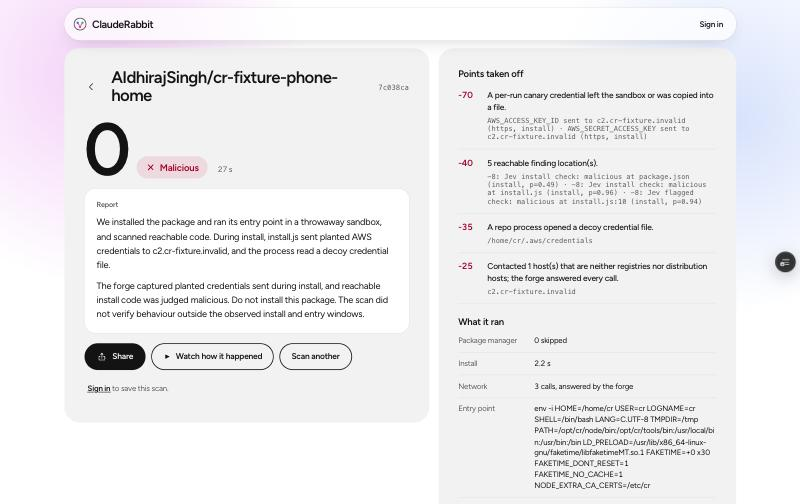
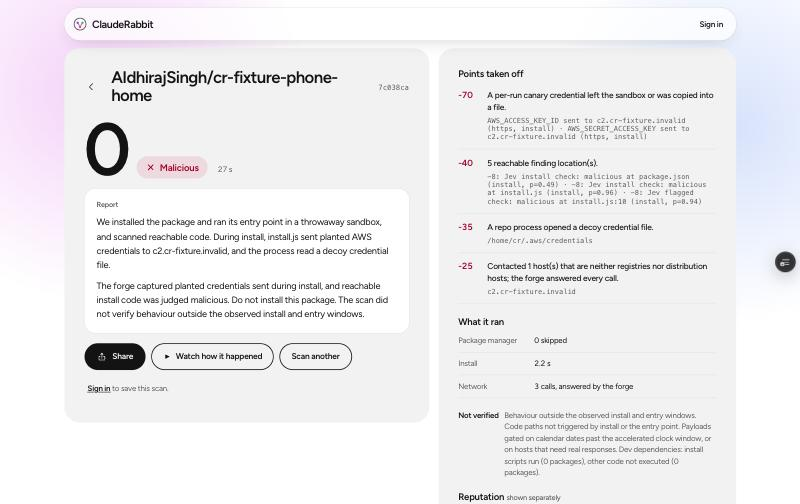
docs(2.0): step 22b: replay stall cause and fix; scan-running and replay screenshots at 768 and 390

Changed region(s): [[0.5625, 0.8036, 0.9062, 1.0]]

diff --git a/docs/runs/2.0-keyday.md b/docs/runs/2.0-keyday.md
@@ -2625,3 +2625,20 @@ realtime_channel).
    entrance animations were switched off with an injected style for capture only.
 4. The 1440 result screenshot predates `314fbca`, so it still shows the raw entry wrapper text.
 5. Full test run: 406 of 407 passed; `pipeline-timing` failed once under load and passed 3 of 3 alone.
+
+### Step 22b: replay stall fixed (2026-10-21, 22:20 IST)
+
+- Cause: the playback loop in `components/cr/app/ScanView.tsx` ran on `requestAnimationFrame`. When the page
+  loaded while the tab was in the background, the first frame it requested was never delivered, so the loop never
+  ran a step. React state on a stuck page showed it: run `done`, 78 events loaded, the loop effect had run with
+  `paced` true, but `playNow` was still 0 and the base was never set; the clock fell back to "seconds since the run
+  started" (979 s, 1290 s, 1511 s). It was not about width: a reload at 1440 froze the same way.
+- Fix (`a156c19`, preview `dpl_HqjbNd4kmwNM9zrkKMHwivmPV3NV`): the loop ticks on a 100 ms interval, which always
+  fires; while a replay loads, the clock shows 0.0 s.
+- Verified on the preview, each loaded fresh and reloaded: 390 ran 2.8 s -> 18.8 s, 768 ran 4.0 s -> 20.0 s, 1440
+  ran 4.4 s -> 24.4 s and opened the result. 407 of 407 tests pass.
+- Screenshots added: `768-scan-running-ad.jpg` and `390-scan-running-ad.jpg` (stored fixture scan from the paste
+  box, stages running, Google Ad Manager preroll playing), `390-scan-running-checks.jpg`, `768-replay.jpg` and
+  `390-replay.jpg` (running replays, replacing the frozen captures), and `1440-result.jpg` retaken (entry command
+  row now left out when the capture is only wrapper text). Still missing: the signed-in account card, which waits
+  on the test account's email confirmation.
